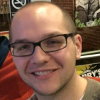
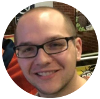
update profile pic

diff --git a/css/default.scss b/css/default.scss
@@ -20,11 +20,13 @@ $header-height: 50px;
 $header-vertical-padding: 10px;
 
 $title-font-size: 25pt;
+$nav-font-size: 15pt;
 
 $page-directory-color: #6C7A89;
 $page-directory-margin: 10px;
 
 $content-width: 40%;
+$content-min-width: 750px;
 
 .header {
     border-bottom: 1px solid darkgray;
@@ -36,6 +38,7 @@ $content-width: 40%;
     .content {
         margin: 0 auto;
         width: $content-width;
+        min-width: $content-min-width;
         display: flex;
         align-items: flex-end;
         
@@ -53,6 +56,7 @@ $content-width: 40%;
                 text-decoration: none;
                 color: lighten($page-directory-color, 25%);
                 font-weight: 300;
+                font-size: $nav-font-size;
 
                 i.fa-github {
                     color: $page-directory-color;
@@ -72,6 +76,7 @@ $content-width: 40%;
 
 .body {
     width: $content-width;
+    min-width: $content-min-width;
     padding: 35px 0;
     margin: 0 auto;
 }

diff --git a/css/contact.scss b/css/contact.scss
@@ -14,6 +14,10 @@
 
         td {
             vertical-align: middle;
+
+            a {
+                font-size: 15pt;
+            }
         }
     }
 }

diff --git a/css/resume.scss b/css/resume.scss
@@ -10,5 +10,6 @@
 
     .profile-pic {
         flex: 0 0 auto;
+        margin: 0 15px;
     }
 }
